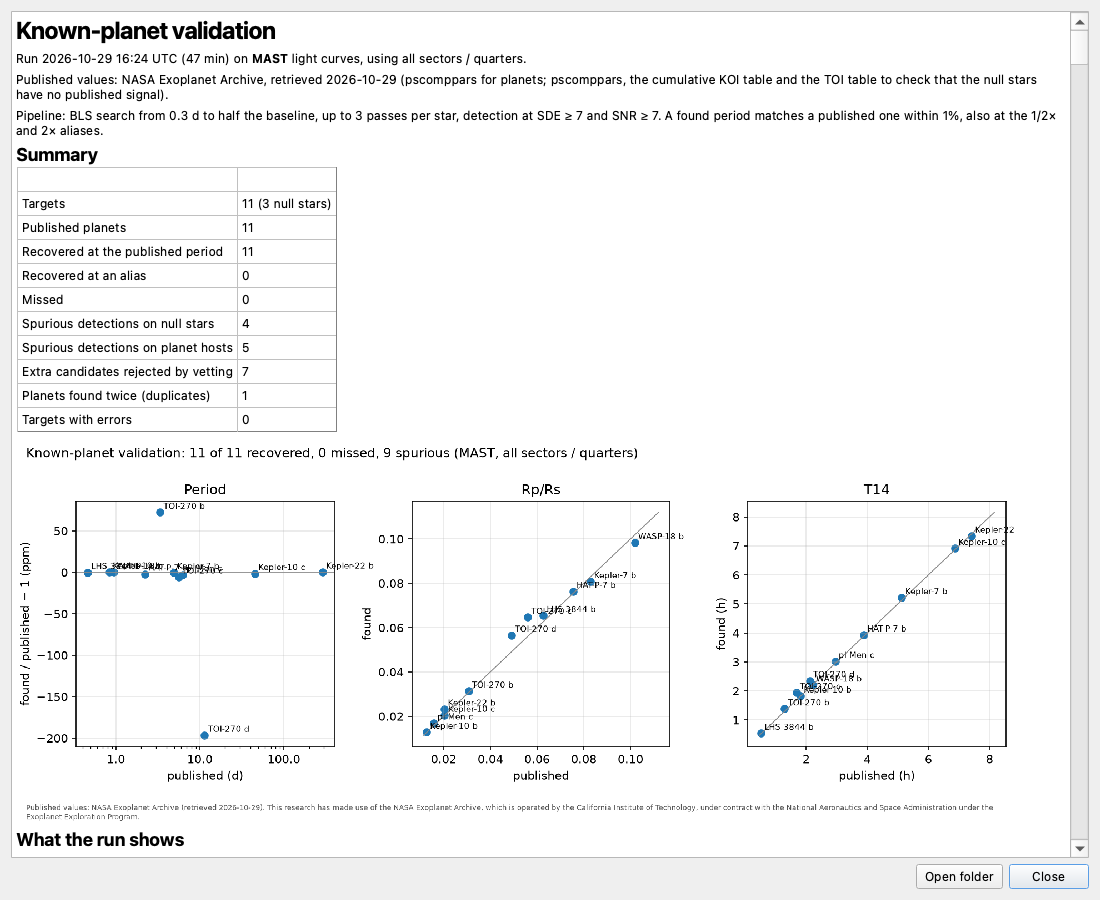
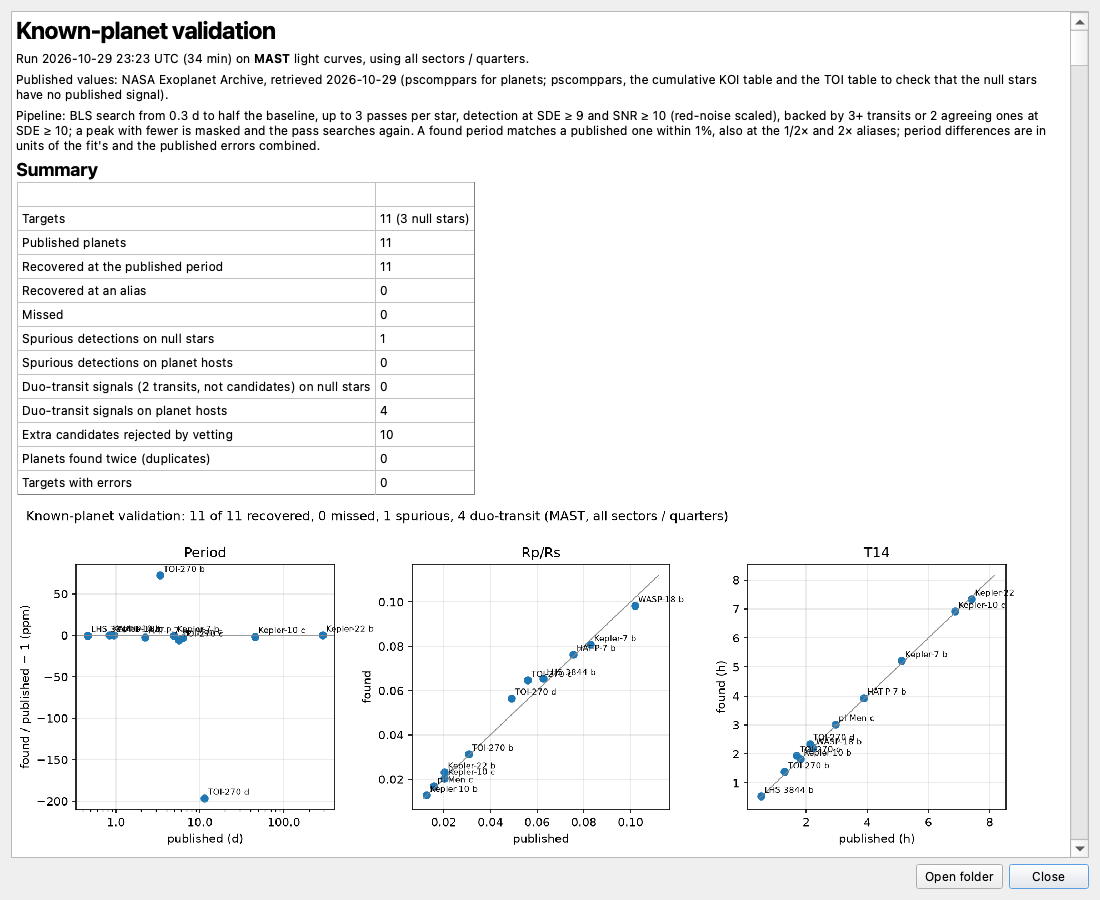
Rerun the live known-planet validation after the duo-transit, threshold and period changes
- Republished docs/validation (all sectors): 11 of 11 planets recovered, 1 spurious detection (null star KIC 8006161), 0 on hosts, 4 duo-transits on hosts, 10 rejected, no duplicates, median |dRp/Rs| 3.4%, only TOI-270 d beyond 5 sigma in period; retook docs/shots/07-validation.png.
- The report's first finding no longer calls every signal with at most 2 transits systematics when duo-transits are present, and the spurious-detection finding reads correctly for a single detection.

diff --git a/transitory/validation/report.py b/transitory/validation/report.py
@@ -220,17 +220,20 @@ def run_findings(run: ValidationRun) -> list[str]:
         n_rejected = sum(1 for _, o, _ in few if o.kind == "rejected")
         n_duo = sum(1 for _, o, _ in few if o.kind == DUO_TRANSIT)
         text = (f"{len(few)} of {len(extra)} extra candidates cover at most 2 transits, at periods of "
-                f"{periods[0]:.0f}–{periods[-1]:.0f} d: dips from systematics or variability")
+                f"{periods[0]:.0f}–{periods[-1]:.0f} d"
+                + (", too few to show periodicity on their own" if n_duo
+                   else ": dips from systematics or variability"))
         if any(p.candidate.n_transits == 2 for _, _, p in few):
-            text += (f", which the search accepts as periodic when 2 dips agree at SDE ≥ "
-                     f"{SDE_TWO_TRANSITS:g}")
+            text += ((", though the search accepts them" if n_duo else ", which the search accepts")
+                     + f" as periodic when 2 dips agree at SDE ≥ {SDE_TWO_TRANSITS:g}")
         missed = any(c.found_index is None for _, c in comps)
         text += (" (on " + ", ".join(stars) + "). "
                  + ("They take search passes from real planets; " if exhausted else
                     "" if missed else "No planet was missed for them, but they fill the remaining "
                     "search passes; ")
                  + f"the vetting rejects {n_rejected} of them afterwards"
-                 + (f" and lists {n_duo} as duo-transits" if n_duo else "") + ".")
+                 + (f" and lists {n_duo} as duo-transits, which may be long-period planets "
+                    "(next item)" if n_duo else "") + ".")
         findings.append(text)
     duos = [(r, o, p) for r, o, p in extra if o.kind == DUO_TRANSIT]
     if duos:
@@ -250,15 +253,21 @@ def run_findings(run: ValidationRun) -> list[str]:
         ratings = sorted({p.vetting.confidence for _, _, p in spurious if p.vetting is not None})
         n_few = sum(1 for _, _, p in spurious if p.candidate.n_transits <= 3)
         n_sys = sum(1 for _, o, _ in spurious if "near " in o.explanation)
+        one = len(spurious) == 1
+        max_snr = max(p.candidate.snr for _, _, p in spurious)
         findings.append(
-            f"{len(spurious)} spurious detection{'s' if len(spurious) != 1 else ''} passed vetting as "
+            f"{_count(len(spurious), 'spurious detection')} passed vetting as "
             + " or ".join(f"'{c}'" for c in ratings) + " ("
             + ", ".join(sorted({r.name for r, _, _ in spurious})) + "); "
-            + f"{n_few} of them cover at most 3 transits"
-            + (f" and {n_sys} lie near an instrumental period" if n_sys else "")
-            + f". Their SNRs (up to {max(p.candidate.snr for _, _, p in spurious):.0f}) already allow "
-            "for correlated noise (the red-noise beta factor), so the SNR cannot tell them from planets: "
-            "with so few events, a recurring instrumental or stellar dip looks like a transit.")
+            + (("it covers at most 3 transits" if n_few else "it covers more than 3 transits") if one
+               else f"{n_few} of them cover at most 3 transits")
+            + ((" and lies" if one else f" and {n_sys}" + (" lies" if n_sys == 1 else " lie"))
+               + " near an instrumental period" if n_sys else "")
+            + (f". Its SNR ({max_snr:.0f}) already allows" if one
+               else f". Their SNRs (up to {max_snr:.0f}) already allow")
+            + " for correlated noise (the red-noise beta factor), so the SNR cannot tell "
+            + ("it" if one else "them") + " from a planet: with so few events, a recurring instrumental "
+            "or stellar dip looks like a transit.")
     dups = [(r, o, p) for r, o, p in others if o.kind == "duplicate"]
     if dups:
         findings.append("Found again by a later search pass: "

diff --git a/tests/test_validation.py b/tests/test_validation.py
@@ -140,7 +140,8 @@ def test_findings_summarise_patterns(tmp_path):
     assert "when 2 dips agree at SDE ≥ 10" in findings and "the vetting rejects 1 of them" in findings
     assert "No planet was missed for them" not in findings  # Star c is missed
     assert "1 spurious detection passed vetting as 'weak'" in findings
-    assert "1 of them cover at most 3 transits" in findings and "red-noise beta factor" in findings
+    assert "it covers at most 3 transits" in findings and "Its SNR (" in findings
+    assert "red-noise beta factor" in findings
     assert "white noise" not in findings
     assert "Star b rated only 'weak' because the vetting detected a secondary eclipse" in findings
     assert "Star b (+25%)" in findings and "the host of Star b" in findings
@@ -213,6 +214,8 @@ def test_duo_transits_counted_apart_from_recoveries_and_spurious():
 
     findings = " ".join(report.run_findings(run))
     assert "the vetting rejects 0 of them afterwards and lists 2 as duo-transits" in findings
+    assert "may be long-period planets" in findings and "systematics or variability" not in findings
+    assert "too few to show periodicity on their own, though the search accepts them as periodic" in findings
     assert "2 duo-transit signals (Host c at 720 d, Quiet b at 486 d)" in findings
     assert "counted neither as recoveries nor as spurious detections" in findings
     assert "1 lie near an instrumental period" in findings

diff --git a/docs/validation/validation.md b/docs/validation/validation.md
@@ -1,10 +1,10 @@
 # Known-planet validation
 
-Run 2026-10-29 21:31 UTC (37 min) on **MAST** light curves, using all sectors / quarters.
+Run 2026-10-29 23:23 UTC (34 min) on **MAST** light curves, using all sectors / quarters.
 
 Published values: NASA Exoplanet Archive, retrieved 2026-10-29 (pscomppars for planets; pscomppars, the cumulative KOI table and the TOI table to check that the null stars have no published signal).
 
-Pipeline: BLS search from 0.3 d to half the baseline, up to 3 passes per star, detection at SDE ≥ 7 and SNR ≥ 7 (red-noise scaled), backed by 3+ transits or 2 agreeing ones at SDE ≥ 10; a peak with fewer is masked and the pass searches again. A found period matches a published one within 1%, also at the 1/2× and 2× aliases; period differences are in units of the fit's and the published errors combined.
+Pipeline: BLS search from 0.3 d to half the baseline, up to 3 passes per star, detection at SDE ≥ 9 and SNR ≥ 10 (red-noise scaled), backed by 3+ transits or 2 agreeing ones at SDE ≥ 10; a peak with fewer is masked and the pass searches again. A found period matches a published one within 1%, also at the 1/2× and 2× aliases; period differences are in units of the fit's and the published errors combined.
 
 ## Summary
 
@@ -15,22 +15,21 @@ Pipeline: BLS search from 0.3 d to half the baseline, up to 3 passes per star, d
 | Recovered at the published period | 11 |
 | Recovered at an alias | 0 |
 | Missed | 0 |
-| Spurious detections on null stars | 3 |
+| Spurious detections on null stars | 1 |
 | Spurious detections on planet hosts | 0 |
 | Duo-transit signals (2 transits, not candidates) on null stars | 0 |
 | Duo-transit signals on planet hosts | 4 |
-| Extra candidates rejected by vetting | 9 |
-| Planets found twice (duplicates) | 1 |
+| Extra candidates rejected by vetting | 10 |
+| Planets found twice (duplicates) | 0 |
 | Targets with errors | 0 |
 
 ![Summary](summary.png)
 
 ## What the run shows
 
-- 12 of 16 extra candidates cover at most 2 transits, at periods of 22–733 d: dips from systematics or variability, which the search accepts as periodic when 2 dips agree at SDE ≥ 10 (on KIC 6106415, Kepler-10, Kepler-2, Kepler-22, Kepler-7, LHS 3844, WASP-18). No planet was missed for them, but they fill the remaining search passes; the vetting rejects 8 of them afterwards and lists 4 as duo-transits.
+- 14 of 15 extra candidates cover at most 2 transits, at periods of 22–733 d, too few to show periodicity on their own, though the search accepts them as periodic when 2 dips agree at SDE ≥ 10 (on KIC 6106415, Kepler-10, Kepler-2, Kepler-22, Kepler-7, LHS 3844, WASP-18). No planet was missed for them, but they fill the remaining search passes; the vetting rejects 10 of them afterwards and lists 4 as duo-transits, which may be long-period planets (next item).
 - 4 duo-transit signals (Kepler-7 c at 720 d, Kepler-7 d at 435 d, Kepler-22 c at 477 d, Kepler-22 d at 733 d): 2 transits that pass every vetting check, including a fitted T14 that agrees with the dip's width. A real planet on a long period can show only two transits, so they are kept, but two dips can't show periodicity: they are counted neither as recoveries nor as spurious detections; 2 lie near an instrumental period, which makes systematics the likelier cause.
-- 3 spurious detections passed vetting as 'weak' (KIC 8006161, TIC 31410749); 2 of them cover at most 3 transits. Their SNRs (up to 102) already allow for correlated noise (the red-noise beta factor), so the SNR cannot tell them from planets: with so few events, a recurring instrumental or stellar dip looks like a transit.
-- Found again by a later search pass: HAT-P-7 b on Kepler-2 (13 ppm). The search masks a detected planet's transits, and its secondary eclipse when it sees one, but signal left in or around the masked transits remains at the same period.
+- 1 spurious detection passed vetting as 'weak' (KIC 8006161); it covers at most 3 transits. Its SNR (102) already allows for correlated noise (the red-noise beta factor), so the SNR cannot tell it from a planet: with so few events, a recurring instrumental or stellar dip looks like a transit.
 - Found periods differ from the published ones by more than 5σ (the fit's and the published errors combined) for TOI-270 d (20σ). The fit's errors already allow for red noise and transit-timing scatter; the published period comes from a different time span, and transit-timing variations shift the mean period with the span observed (TOI-270 c and d are near a 2:1 resonance).
 - Rp/Rs agrees with the published value within a median of 3.4%; beyond 10%: Kepler-22 b (+14%), TOI-270 c (+15%), TOI-270 d (+15%). The fit takes limb darkening for the mission's bandpass and the star's Teff and constrains a/Rs by the stellar density, but shallow transits still leave Rp/Rs degenerate with the impact parameter; for TOI-270 c, TOI-270 d T14 is also off by more than 10%, so the fitted transit shape differs from the published one; limb darkening is least certain for M dwarfs (the host of TOI-270 c, TOI-270 d).
 
@@ -60,23 +59,21 @@ Candidates that match no published planet. *Spurious* ones passed vetting (weak 
 
 | Star | Candidate | P (d) | Depth (ppm) | SNR | SDE | Transits | Confidence | Kind | Explanation |
 |---|---|---|---|---|---|---|---|---|---|
-| Kepler-10 | d | 385.1092 | 256 | 14.7 | 17.0 | 2 | none | rejected | near 1× the Kepler orbit (372.5 d); only 2 events covered: more likely individual systematics or stellar variability than a periodic signal; vetting: only 2 transits observed, and they fail the checks; odd/even depths differ by 5.8 sigma (281 vs 14 ppm): likely eclipsing binary. |
+| Kepler-10 | d | 385.1092 | 256 | 14.7 | 17.0 | 2 | none | rejected | near 1× the Kepler orbit (372.5 d); only 2 events covered: more likely individual systematics or stellar variability than a periodic signal; vetting: only 2 transits observed, and they fail the checks; odd/even depths differ by 5.8 sigma (281 vs 14 ppm): likely eclipsing binary; marginal SNR 14.7. |
 | Kepler-7 | c | 719.9761 | 664 | 30.7 | 35.9 | 2 | duo-transit | duo-transit | near 2× the Kepler orbit (372.5 d); only 2 events covered, passing every vetting check: a duo-transit, which may be a planet on a long period or two unrelated dips from systematics or stellar variability; more data must show a third transit; vetting: only 2 transits observed (SNR 30.7, SDE 35.9, odd/even consistent): a possible long-period planet, not a planet candidate until more transits confirm it. |
 | Kepler-7 | d | 434.9402 | 242 | 16.9 | 25.9 | 2 | duo-transit | duo-transit | only 2 events covered, passing every vetting check: a duo-transit, which may be a planet on a long period or two unrelated dips from systematics or stellar variability; more data must show a third transit; vetting: only 2 transits observed (SNR 16.9, SDE 25.9, odd/even consistent): a possible long-period planet, not a planet candidate until more transits confirm it. |
-| Kepler-2 | c | 360.0051 | 309 | 18.4 | 17.1 | 2 | none | rejected | near 1× the Kepler orbit (372.5 d); only 2 events covered: more likely individual systematics or stellar variability than a periodic signal; vetting: only 2 transits observed, and they fail the checks; odd/even depths differ by 8.2 sigma (425 vs -45 ppm): likely eclipsing binary. |
-| Kepler-2 | d | 2.2047 | 13 | 12.3 | 24.6 | 614 | none | duplicate | HAT-P-7 b found again in a later search pass (at 1× its period): what the masking after its detection left behind (residual transit signal, or the planet's secondary eclipse); vetting: repeat of the P=2.2047 d signal, not a separate planet. |
+| Kepler-2 | c | 360.0051 | 309 | 18.4 | 17.1 | 2 | none | rejected | near 1× the Kepler orbit (372.5 d); only 2 events covered: more likely individual systematics or stellar variability than a periodic signal; vetting: only 2 transits observed, and they fail the checks; odd/even depths differ by 8.0 sigma (404 vs -44 ppm): likely eclipsing binary. |
+| Kepler-2 | d | 162.7295 | 242 | 11.3 | 17.3 | 2 | none | rejected | only 2 events covered: more likely individual systematics or stellar variability than a periodic signal; vetting: only 2 transits observed, and they fail the checks; marginal SNR 11.3. |
 | Kepler-22 | c | 476.9100 | 182 | 19.2 | 20.9 | 2 | duo-transit | duo-transit | only 2 events covered, passing every vetting check: a duo-transit, which may be a planet on a long period or two unrelated dips from systematics or stellar variability; more data must show a third transit; vetting: only 2 transits observed (SNR 19.2, SDE 20.9, odd/even consistent): a possible long-period planet, not a planet candidate until more transits confirm it. |
 | Kepler-22 | d | 732.5321 | 233 | 17.9 | 20.0 | 2 | duo-transit | duo-transit | near 2× the Kepler orbit (372.5 d); only 2 events covered, passing every vetting check: a duo-transit, which may be a planet on a long period or two unrelated dips from systematics or stellar variability; more data must show a third transit; vetting: only 2 transits observed (SNR 17.9, SDE 20.0, odd/even consistent): a possible long-period planet, not a planet candidate until more transits confirm it. |
 | LHS 3844 | c | 114.6287 | 9561 | 35.7 | 17.9 | 2 | none | rejected | only 2 events covered: more likely individual systematics or stellar variability than a periodic signal; vetting: only 2 transits observed, and they fail the checks; odd/even depths differ by 3.9 sigma (8973 vs 12343 ppm): likely eclipsing binary. |
-| LHS 3844 | d | 64.3335 | 3557 | 21.4 | 10.1 | 2 | none | rejected | only 2 events covered: more likely individual systematics or stellar variability than a periodic signal; vetting: only 2 transits observed, and they fail the checks; odd/even depths differ by 4.3 sigma (2541 vs 4964 ppm): likely eclipsing binary. |
-| WASP-18 | c | 0.3138 | 109 | 15.1 | 14.6 | 352 | none | rejected | a 1/3× alias of WASP-18 b (P = 0.9415 d); vetting: third-period alias of the P=0.9414 d signal, not a separate planet. |
-| WASP-18 | d | 21.9292 | 992 | 15.9 | 11.9 | 2 | none | rejected | only 2 events covered: more likely individual systematics or stellar variability than a periodic signal; vetting: only 2 transits observed, and they fail the checks; fitted T14 13.9 h is much longer than the 3.6 h detected dip: not transit-shaped. |
+| LHS 3844 | d | 64.3335 | 3557 | 21.4 | 10.1 | 2 | none | rejected | only 2 events covered: more likely individual systematics or stellar variability than a periodic signal; vetting: only 2 transits observed, and they fail the checks; odd/even depths differ by 4.3 sigma (2541 vs 4964 ppm): likely eclipsing binary; marginal SDE 10.1. |
+| WASP-18 | c | 21.9292 | 992 | 15.9 | 11.9 | 2 | none | rejected | only 2 events covered: more likely individual systematics or stellar variability than a periodic signal; vetting: only 2 transits observed, and they fail the checks; marginal SDE 11.9; fitted T14 13.9 h is much longer than the 3.6 h detected dip: not transit-shaped. |
+| WASP-18 | d | 37.7283 | 882 | 13.0 | 10.0 | 2 | none | rejected | only 2 events covered: more likely individual systematics or stellar variability than a periodic signal; vetting: only 2 transits observed, and they fail the checks; marginal SNR 13.0; marginal SDE 10.0; rp/rs 0.34 is large for a planet. |
 | KIC 8006161 | b | 442.3361 | 1092 | 102.2 | 33.4 | 3 | weak | spurious | only 3 events covered: more likely individual systematics or stellar variability than a periodic signal; vetting: rp/rs 0.31 is large for a planet. |
 | KIC 6106415 | b | 554.7304 | 1217 | 128.0 | 29.4 | 2 | none | rejected | only 2 events covered: more likely individual systematics or stellar variability than a periodic signal; vetting: only 2 transits observed, and they fail the checks; odd/even depths differ by 49.9 sigma (6747 vs 4070 ppm): likely eclipsing binary; rp/rs 0.30 is large for a planet; fitted T14 1.0 h disagrees with the 3.4 h detected dip: not transit-shaped. |
 | KIC 6106415 | c | 486.0703 | 976 | 86.5 | 25.6 | 2 | none | rejected | only 2 events covered: more likely individual systematics or stellar variability than a periodic signal; vetting: only 2 transits observed, and they fail the checks; rp/rs 0.31 is large for a planet; fitted T14 1.2 h disagrees with the 3.4 h detected dip: not transit-shaped. |
 | KIC 6106415 | d | 700.9178 | 700 | 80.9 | 19.4 | 2 | none | rejected | only 2 events covered: more likely individual systematics or stellar variability than a periodic signal; vetting: only 2 transits observed, and they fail the checks; odd/even depths differ by 23.1 sigma (626 vs 1465 ppm): likely eclipsing binary. |
-| TIC 31410749 | b | 57.6336 | 145 | 9.4 | 10.5 | 4 | weak | spurious | not an alias or a known systematic period; correlated noise or stellar variability beyond what the red-noise-scaled SNR allows for is the likely cause; vetting: marginal SNR 9.4. |
-| TIC 31410749 | c | 96.6325 | 142 | 8.3 | 8.8 | 3 | weak | spurious | only 3 events covered: more likely individual systematics or stellar variability than a periodic signal; vetting: marginal SNR 8.3; marginal SDE 8.8. |
 
 ## Null stars
 
@@ -84,23 +81,23 @@ Candidates that match no published planet. *Spurious* ones passed vetting (weak 
 |---|---|---|---|---|
 | KIC 8006161 | Bright (Tmag 6.8), quiet dwarf (HD 173701), Kepler asteroseismology target, 18 quarters. | none | Kepler 18 quarters, 65,262 points, 1,470 d baseline | b: spurious |
 | KIC 6106415 | Bright (Tmag 6.7) dwarf, Kepler asteroseismology target, 14 long-cadence quarters. | none | Kepler 14 quarters, 50,642 points, 1,437 d baseline | b: rejected, c: rejected, d: rejected |
-| TIC 31410749 | Tmag 8.3 dwarf in the southern TESS continuous viewing zone, 13 sectors (SPOC 2-min and TESS-SPOC full-frame-image light curves). | none | TESS SPOC+TESS-SPOC 13 sectors, 143,305 points, 1,852 d baseline | b: spurious, c: spurious |
+| TIC 31410749 | Tmag 8.3 dwarf in the southern TESS continuous viewing zone, 13 sectors (SPOC 2-min and TESS-SPOC full-frame-image light curves). | none | TESS SPOC+TESS-SPOC 13 sectors, 143,305 points, 1,852 d baseline | none |
 
 ## Targets
 
 | Star | Role | Data | Time (s) | Errors |
 |---|---|---|---|---|
-| Kepler-10 | planet-host | Kepler 15 quarters, 51,973 points, 1,470 d baseline | 97 |  |
+| Kepler-10 | planet-host | Kepler 15 quarters, 51,973 points, 1,470 d baseline | 93 |  |
 | Kepler-7 | planet-host | Kepler 18 quarters, 65,263 points, 1,470 d baseline | 103 |  |
-| Kepler-2 | planet-host | Kepler 18 quarters, 65,283 points, 1,470 d baseline | 122 |  |
+| Kepler-2 | planet-host | Kepler 18 quarters, 65,283 points, 1,470 d baseline | 111 |  |
 | Kepler-22 | planet-host | Kepler 18 quarters, 65,262 points, 1,470 d baseline | 146 |  |
-| pi Men | planet-host | TESS SPOC 24 sectors, 393,701 points, 2,582 d baseline | 699 |  |
+| pi Men | planet-host | TESS SPOC 24 sectors, 393,701 points, 2,582 d baseline | 707 |  |
 | LHS 3844 | planet-host | TESS SPOC 11 sectors, 168,801 points, 2,879 d baseline | 147 |  |
-| WASP-18 | planet-host | TESS SPOC 10 sectors, 151,222 points, 2,906 d baseline | 156 |  |
-| TOI-270 | planet-host | TESS SPOC 7 sectors, 137,828 points, 2,660 d baseline | 167 |  |
+| WASP-18 | planet-host | TESS SPOC 10 sectors, 151,222 points, 2,906 d baseline | 133 |  |
+| TOI-270 | planet-host | TESS SPOC 7 sectors, 137,828 points, 2,660 d baseline | 169 |  |
 | KIC 8006161 | null | Kepler 18 quarters, 65,262 points, 1,470 d baseline | 138 |  |
 | KIC 6106415 | null | Kepler 14 quarters, 50,642 points, 1,437 d baseline | 104 |  |
-| TIC 31410749 | null | TESS SPOC+TESS-SPOC 13 sectors, 143,305 points, 1,852 d baseline | 326 |  |
+| TIC 31410749 | null | TESS SPOC+TESS-SPOC 13 sectors, 143,305 points, 1,852 d baseline | 166 |  |
 
 ## Folded light curves
 
@@ -130,8 +127,6 @@ Candidates that match no published planet. *Spurious* ones passed vetting (weak 
 ![KIC 6106415 b](figures/kic-6106415-b.png)
 ![KIC 6106415 c](figures/kic-6106415-c.png)
 ![KIC 6106415 d](figures/kic-6106415-d.png)
-![TIC 31410749 b](figures/tic-31410749-b.png)
-![TIC 31410749 c](figures/tic-31410749-c.png)
 
 ## References for published values
 
